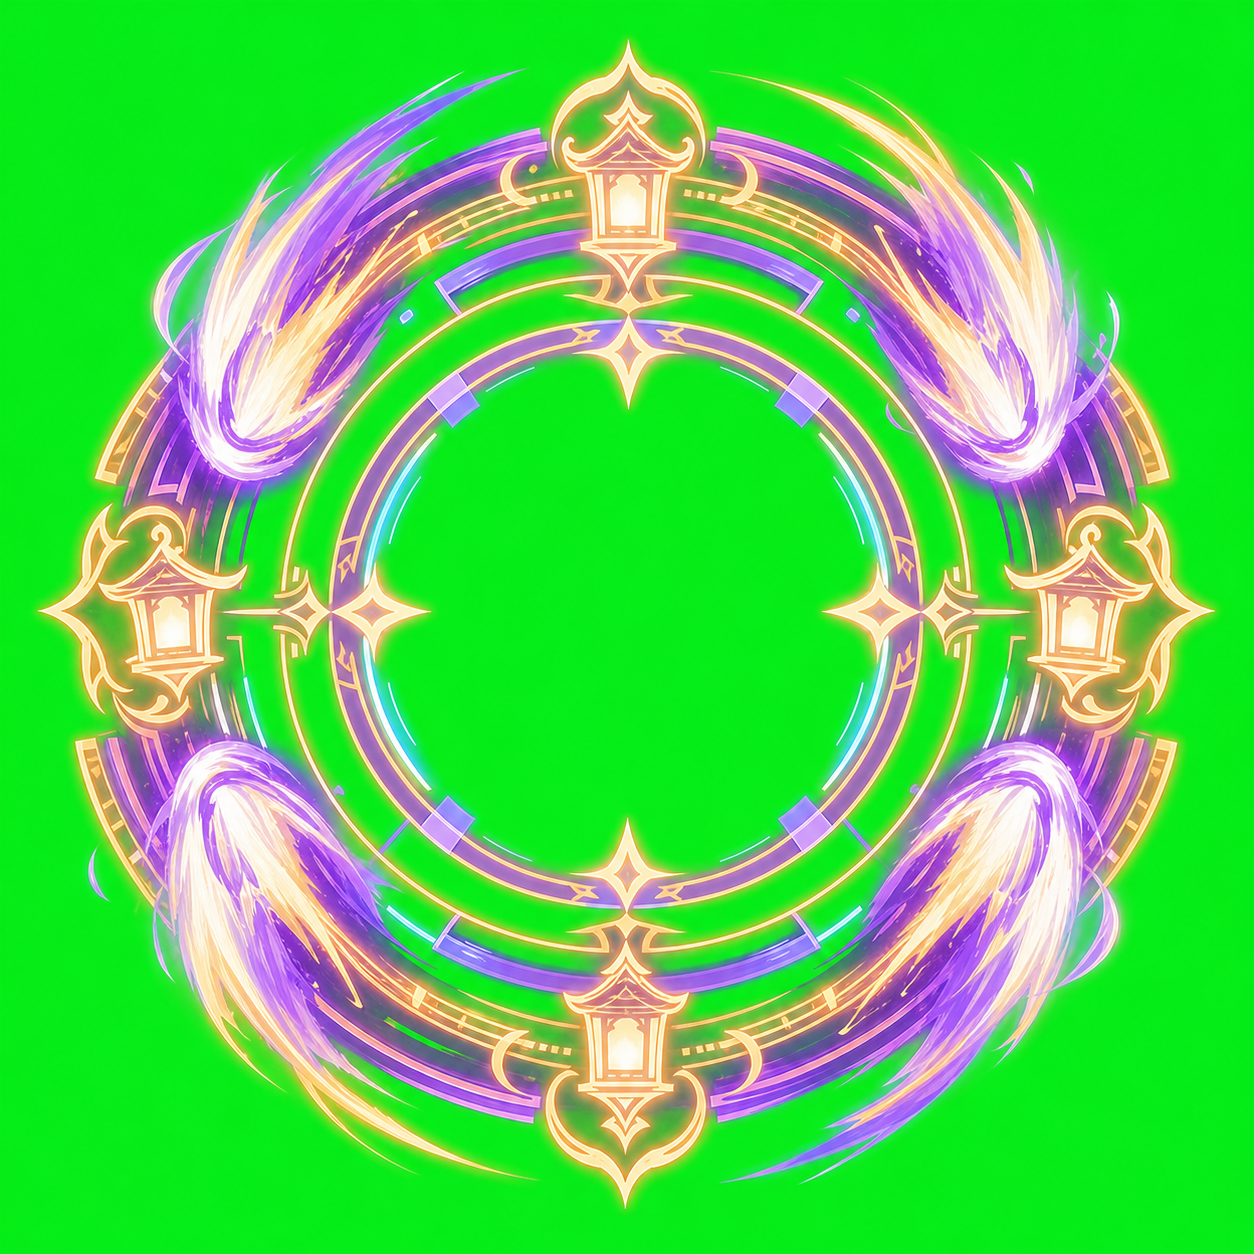
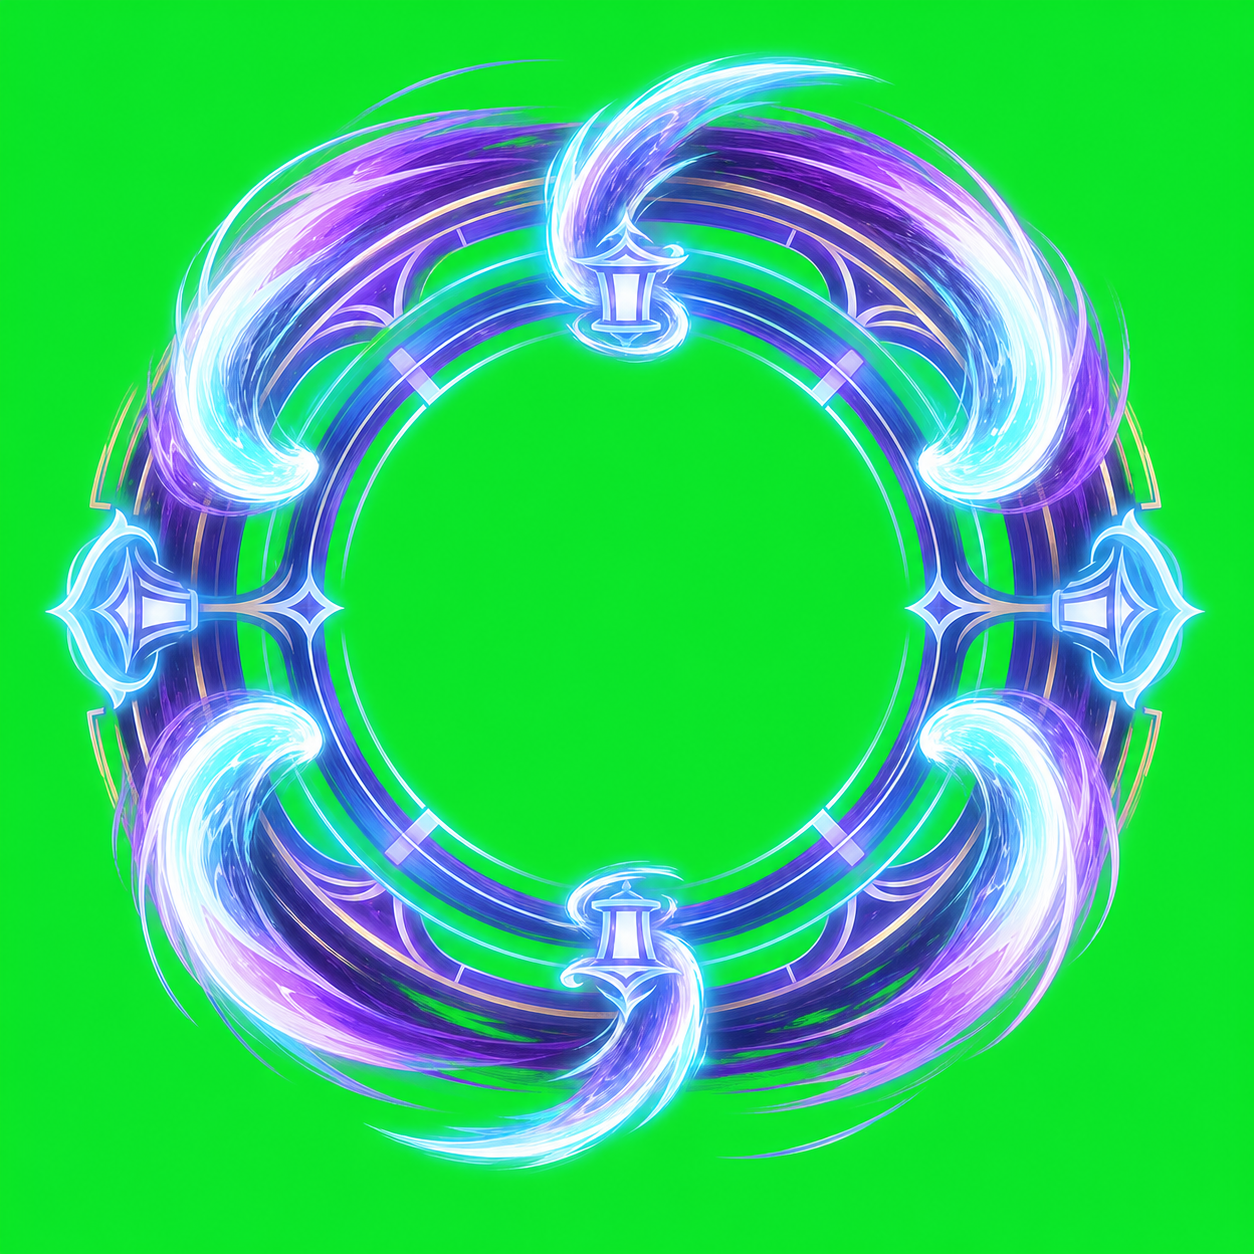
fix: improve Ren focus readability

diff --git a/docs/art/review/phase6_asset_acceptance.md b/docs/art/review/phase6_asset_acceptance.md
@@ -8,7 +8,7 @@
 | protagonist_mika_focus_effects | accepted | Broad rings and open hitbox center; no tiny hostile bullet dots. | Matches player-owned boundary energy. | Regenerated cleaner version after first pass had too many small dots/cards. |
 | protagonist_ren_gameplay_sprite | accepted | Readable compact spellcaster silhouette; no hostile red bullet glow. | Matches original lantern spellcaster direction. | Avoids witch hat, broom, and copied magician symbols. |
 | protagonist_ren_portrait | accepted | Portrait detail does not affect gameplay; star motifs avoid small bullet clusters. | Matches style; original lantern astrolabe identity. | No protected magician silhouette. |
-| protagonist_ren_focus_effects | accepted | Large astrolabe/comet strokes, not enemy star-bullet specks. | Matches player-owned violet/gold language. | Open center retained. |
+| protagonist_ren_focus_effects | accepted | Revised blue-violet astrolabe strokes avoid both enemy star bullets and gold item-drop silhouettes. | Matches player-owned lantern-comet language without collectible-like ornaments. | Regenerated after review flagged gold diamond item confusion. |
 | protagonist_shiori_gameplay_sprite | accepted | Regenerated compact version; no wide blade trail hiding bullets. | Matches original spirit-blade direction. | Avoids white bob, green uniform, and ghost-orb motifs. |
 | protagonist_shiori_portrait | accepted | Portrait detail isolated from gameplay; blade accents do not mimic collectibles. | Matches style; original blade guardian identity. | No protected swordswoman silhouette. |
 | protagonist_shiori_focus_effects | accepted | Broad slash arcs with open center; player-owned effect distinct from needle bullets. | Matches cyan spirit-blade language. | Accepted with gameplay ownership constraints. |
